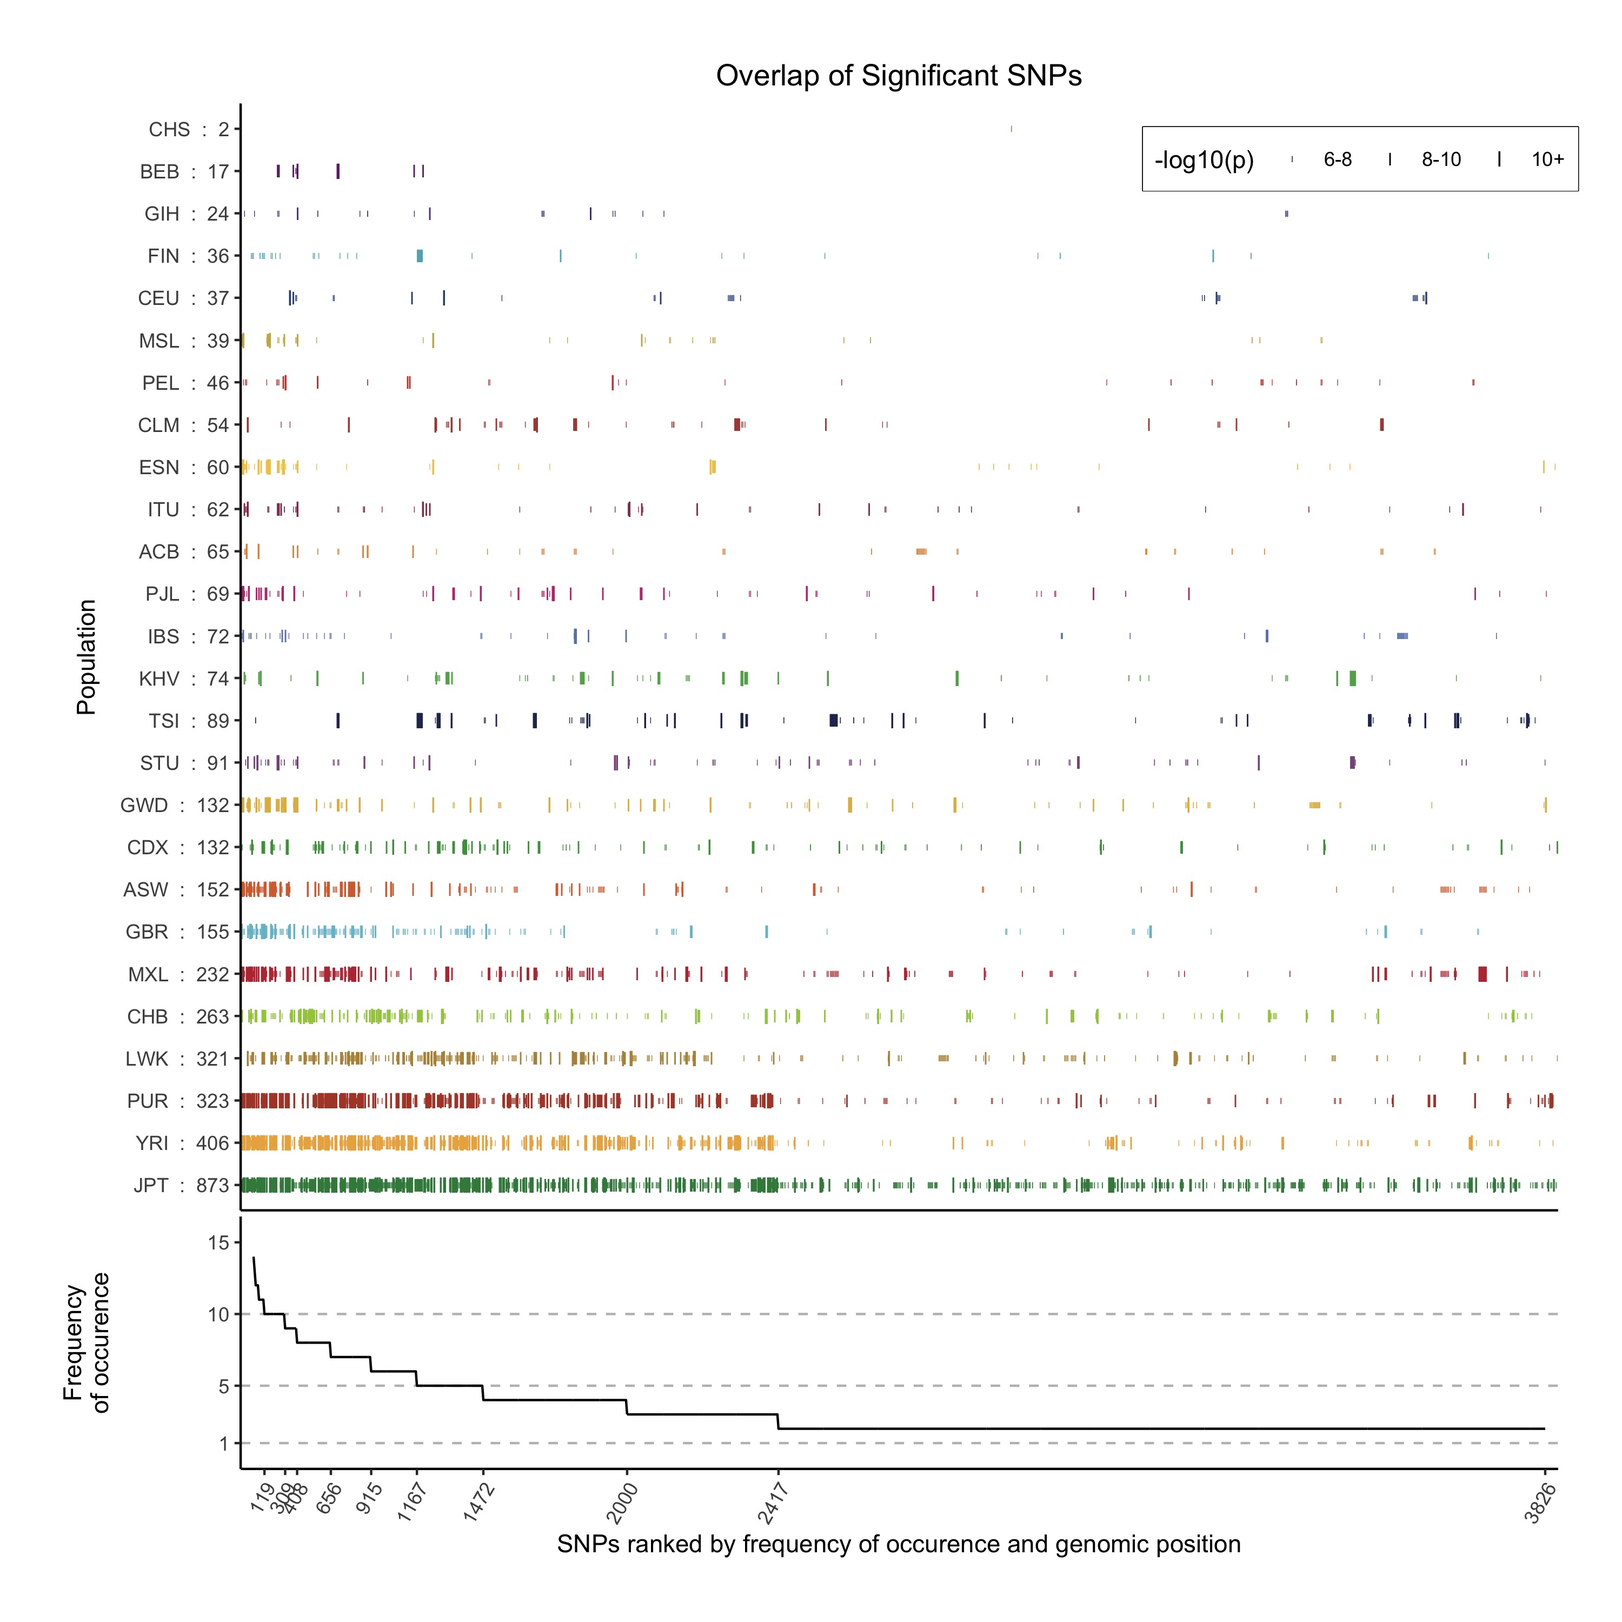
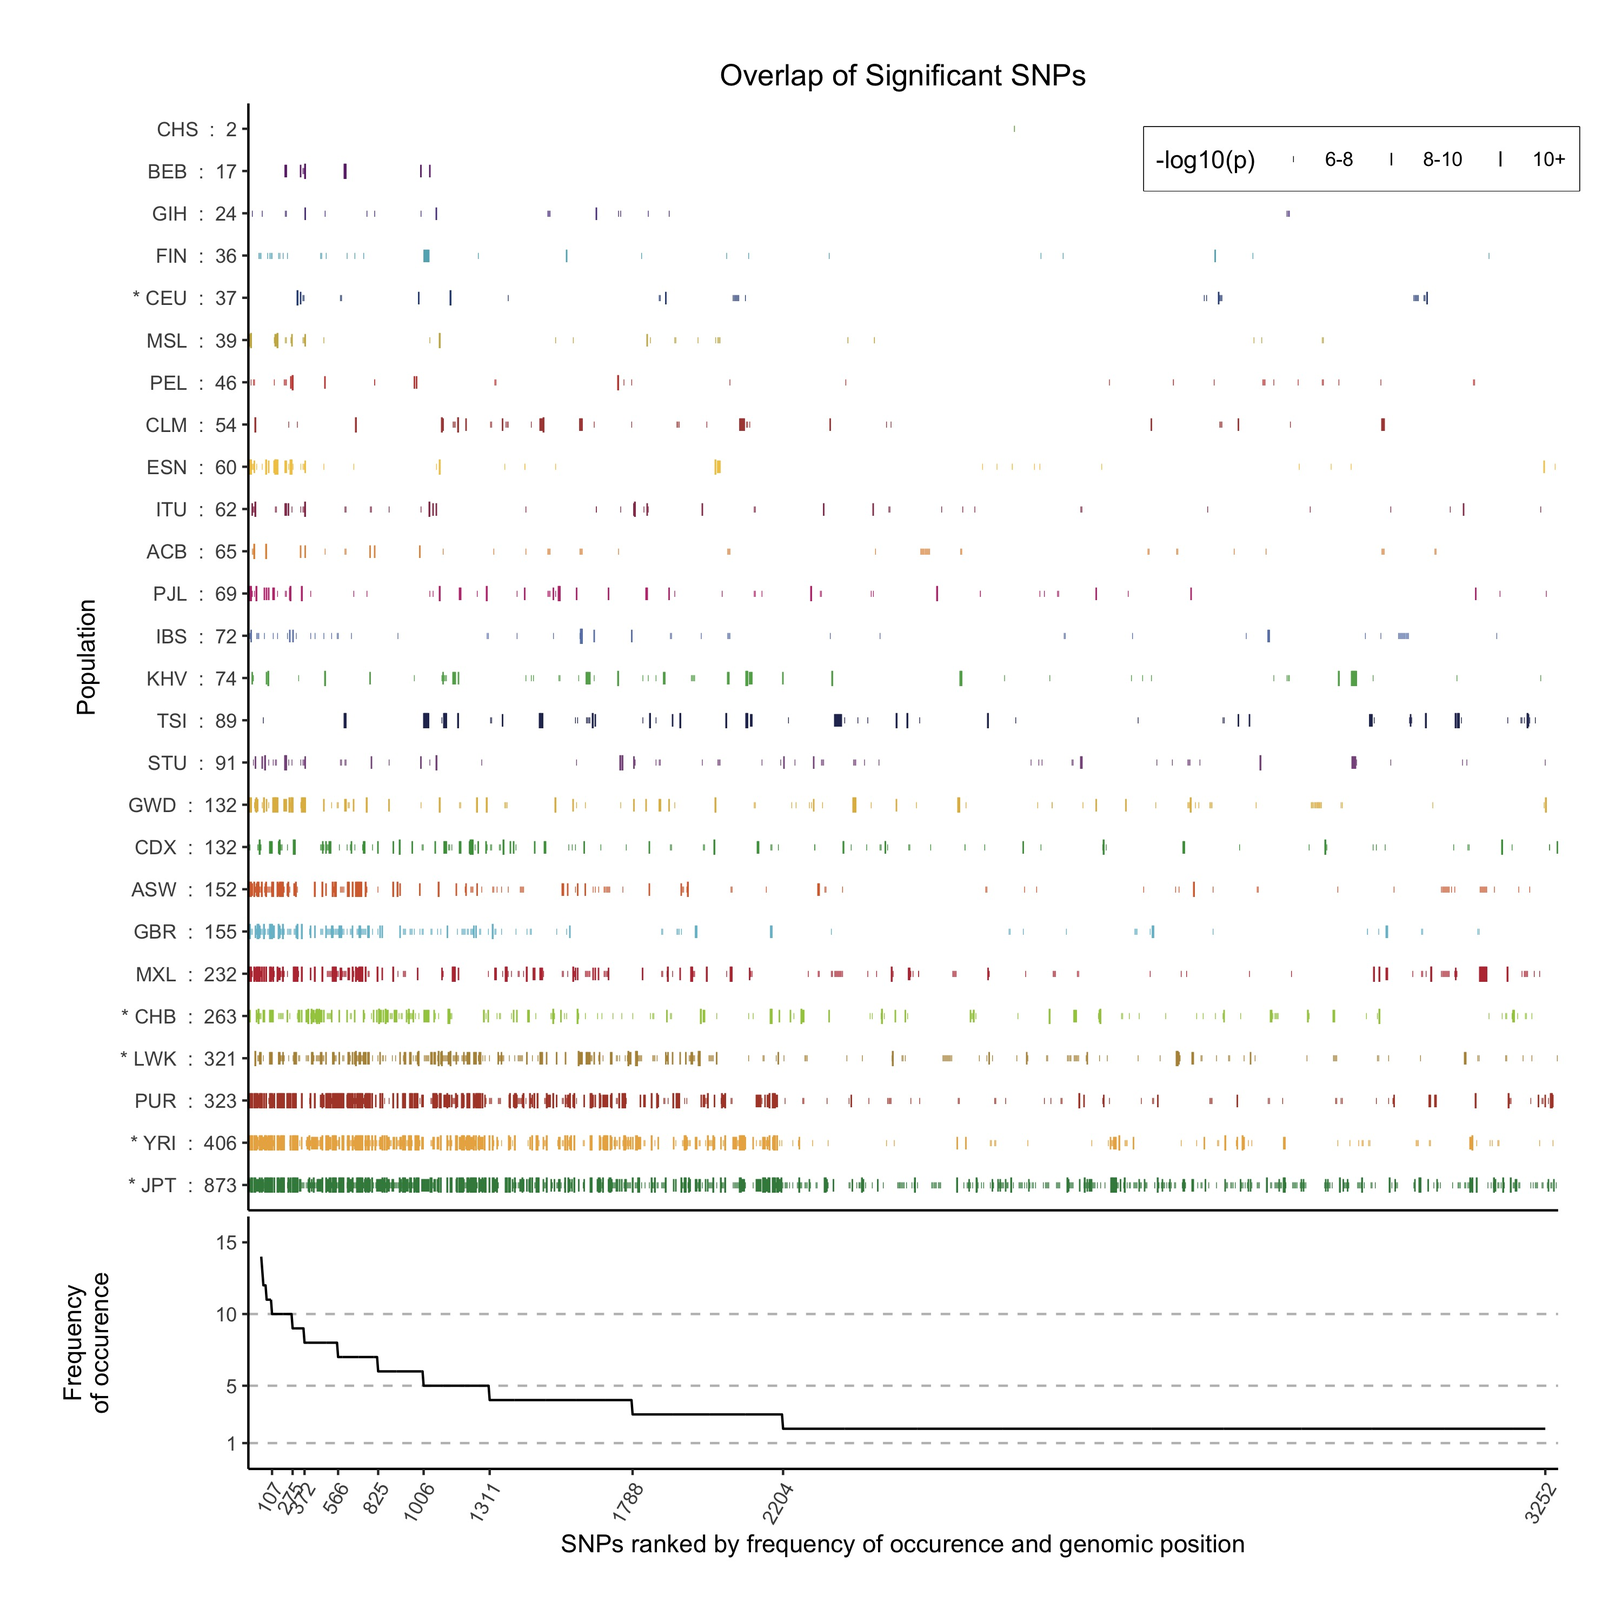
edits before meeting

diff --git a/legacy.tex b/legacy.tex
@@ -121,7 +121,8 @@ Harris and Pritchard reported an excess of a 3-mer substitution patterns *AC${\r
 While trying to follow up on this observation in a larger and more recent Japanese cohort, we did not find this particular signature.
 When comparing the allele frequencies between the Japanese individuals from the 1kGP and this larger dataset, we observed a number of single nucleotide polymorphisms (SNPs) private to one of the two groups.
 Given the similarity of the two populations, this strongly suggests a technical difference rather than a population structure effect.
-These mismatches were maintained after filtering for low-quality regions of the human genome and sites failing Hardy-Weinberg equilibrium tests \sgcomment{did we have a specific result for this? As in "$94\%$ of sites passed HW"...}. %Even though some of the mismatched variants are at low frequency in the 1kGP, and thus can evade Hardy-Weinberg detection, but many are at high enough frequency that HW detection   
+These mismatches were maintained after filtering for low-quality regions of the human genome and sites failing Hardy-Weinberg equilibrium tests \sgcomment{did we have a specific result for this? As in "$94\%$ of sites passed HW"...}. 
+%Even though some of the mismatched variants are at low frequency in the 1kGP, and thus can evade Hardy-Weinberg detection, but many are at high enough frequency that HW detection   
 %Whereas Hardy-Weinberg testing is efficient at detecting high frequency spurious variants, it has little power to filter out rare variants which, in aggregate, can contribute to mutational signatures.
 
 
@@ -149,25 +150,21 @@ This variability could result from evolving sequence platform and protocols or v
 By 2011, older sequencing technologies were phased out, and methods became more consistent, resulting in higher and more uniform quality.
 %Among the many covariates that could be used to identify spurious sites, such as sequencing date, sequencing technology, or sequencing centre, we used average quality of mapped bases ($Q$) per individual because it best correlated with mismatched sites across Japanese cohorts.
 
-<<<<<<< HEAD
-The GWAS approach similarly identified $Q$-associated SNPs in 24 of the 26 populations in the 1kGP, with the phase 1 populations being most affected.
-Over 3826 variants were independently associated to low $Q$ in at least two populations  (Figure \ref{OverLap}). 
-To build a test statistic to represent the association across all populations, we summed the deviances from each population (adjusting the degrees of freedom for the chi-squared test according to the number of populations with a segregating variant) and identified a total of 7971 statistically significant variants (Table \ref{sigTable}, Figure \ref{NRS_Manhattan}, Figure \ref{NRI_Manhattan}, Figure \ref{RS_Manhattan} and Figure \ref{RI_Manhattan}).
-To account for the large number of tests we performed a two-stage Benjamini \& Hochberg step-up FDR-controlling procedure to adjust the p-values using a nominal Type-I error rate $\alpha = 0.01$ \citep{Benjamini2006}.
-=======
-We therefore performed the reverse GWAS approach in all populations, and similarly identified $Q$-associated SNPs in 24 of the 26 populations in the 1kGP, with the phase 1 populations being most affected \sgcomment{quantify!}.
-Over \todo{3517} variants were independently associated to low $Q$ in at least two populations  \sgcomment{At what threshold?}(Figure \ref{OverLap}). 
-To build a test statistic to represent the association across all populations, we summed the deviances from each population (adjusting the degrees of freedom for the chi-squared test according to the number of populations with a segregating variant) and identified a total of 7971 statistically significant variants using a FDR cutoff of $\alpha = 0.01$ (Table \ref{sigTable}, Figure \ref{NRS_Manhattan}, Figure \ref{NRI_Manhattan}, Figure \ref{RS_Manhattan} and Figure \ref{RI_Manhattan}):
-To account for the large number of tests, we used a two-stage Benjamini \& Hochberg step-up FDR-controlling procedure to adjust the p-values using a nominal Type-I error rate $\alpha = 0.01$ \citep{Benjamini2006}.
->>>>>>> 0303eb4fb94935e3da7d00b7364aa2aa294f983c
+We therefore performed the reverse GWAS approach in all populations, and similarly identified $Q$-associated SNPs in 24 of the 26 populations in the 1kGP, with the phase 1 populations being most affected, with on average four times as many significantly associated sites compared to the phase 3 populations.
+% \sgcomment{quantify!}
+Over 3826 variants were independently associated to low $Q$ in at least two populations with $ p < 10^{-6}$ (Figure \ref{OverLap}). 
+To build a test statistic to represent the association across all populations, we summed the deviances from each population (adjusting the degrees of freedom for the chi-squared test according to the number of populations with a segregating variant) and identified a total of 10756 statistically significant variants using a FDR cutoff of $\alpha = 0.01$ (Figure \ref{NRS_Manhattan}, Figure \ref{NRI_Manhattan}, Figure \ref{RS_Manhattan} and Figure \ref{RI_Manhattan}).
+We tested SNPs, INDELs and repetitive regions separately as they may have different error rates (Table \ref{sigTable})
+To account for the large number of tests, we used a two-stage Benjamini \& Hochberg step-up FDR-controlling procedure to adjust the p-values using a nominal Type-I error rate $\alpha = 0.01$ \citep{Benjamini2006}. 
 
+\luke{doing a final update on these values. Repeat entries, rerunning final adjustment with unique positions.}
 \begin{table}[h]
 \begin{tabular}{l  r r}
                       & {Repeat}  & {Non-Repeat}       \\ \hline
-{SNP}  & 2207 & 3839 \\  
-{INDEL} & 750  & 1175 \\ \hline
+{SNP}  & 2207 & 6919 \\  
+{INDEL} & 750  & 2017 \\ \hline
 \end{tabular}
-\caption{Number of statistically significant variants per category \sgcomment{Repeat/Non-repeat is super ambiguous need to clarify!}}
+\caption{Number of statistically significant variants per category. Variants that are flagged by the 1kGP nested repeat mask file were analyzed separately. SNPs and INDELs were also analyzed separately.}
 \label{sigTable}
 \end{table}
 
@@ -184,6 +181,7 @@ To account for the large number of tests, we used a two-stage Benjamini \& Hochb
 \caption{Overlap of SNPs identified independently to be associated with average quality of mapped bases $Q$.
 The size of the crosses ( + ) are proportional to the -log10(p) value of that SNP.
 The x axis is ranked by the frequency of occurrence of a SNP, then by genomic position.
+Phase 1 populations are marked by a star ( * ).
 The line plot underneath shows the number of populations for which a variant has reached significance.
 The populations that tend to have the most individuals with low $Q$ also tend to have the most variants associated to $Q$. 
 The same variants identified as being low quality independently in each population are found in other populations. }
@@ -194,15 +192,9 @@ The same variants identified as being low quality independently in each populati
 The state of the art imputation servers use a combination of many databases including many that are not freely available.
 From the perspective of researchers, they act as black-box imputation machines that take observed genotypes as input and return imputed genotypes.  
 
-<<<<<<< HEAD
-In general, to investigate the proportion of suspicious SNPs that are being imputed, we submitted genotype data from chromosome 1 and 2 of 1kGP individuals to the Michigan Imputation Server.
-We found that \todo{all} the SNPs we identified as being associated with $Q$ were imputed back in the samples. 
-This suggests that the imputation reference panel likely includes individuals with low $Q$, and the dubious variants will be imputed in individuals who most closely match the low-quality individual
-=======
 To investigate the proportion of suspicious SNPs that are being imputed, we submitted genotype data from chromosome 1 and 2 of 1kGP individuals to the Michigan Imputation Server.
-We found that all the SNPs associated with $Q$ were imputed back in the samples. 
+We found that 11\% of the SNPs associated with $Q$ were imputed back in the samples. 
 This suggests that the imputation reference panel still includes individuals with low $Q$, and the dubious variants will be imputed in individuals who most closely match the low-quality individual
->>>>>>> 0303eb4fb94935e3da7d00b7364aa2aa294f983c
 
 Once we identified SNPs that were clearly associated with low $Q$, we searched the literature for any GWAS that might have reported these dubious variants as being significantly associated with some biologic al trait, even though there is no particular reason for these SNPS to be associated with phenotypes.
 The NHGRI-EBI Catalog of published genome-wide association studies identified three recent publications that had reported these variants as close to or above the genome-wide significant threshold.
@@ -210,31 +202,16 @@ Two of these studies genotyped individuals and imputed the data using the HapMap
 The third study used the 1kGP sequence data and cell lines directly.
 All three papers used strict quality thresholds, including Hardy-Weinberg equilibrium test, deviations in expected allele frequency and sequencing data quality thresholds.
 They also removed rare alleles and alleles with high degrees of missingness.
-Despite using state-of-the-art quality controls, these erroneous variants managed not only to be imputed onto real genotype data, but they also reached genome wide significance for biological traits. \sgcomment{This is \emph{very} misleading, and wrong. We should discuss. }
+Despite using state-of-the-art quality controls, these erroneous variants managed not only to be imputed onto real genotype data, but they also nearly reached genome wide significance for biological traits. 
+\sgcomment{This is \emph{very} misleading, and wrong. We should discuss. }
+\luke{Agreed, that sentence slipped by, there was another sentence like that in the discussion that I had fixed. Although the 3rd paper's SNP has $p < 10^{-11}$ }
 
-\sgcomment{Where are all your results comparing with Hapmap, etc? These should be in results.}
 
+We searched other databases to see if the suspicious variants had been sequenced in different cohorts.
+70 of these variants were present in HapMap and 186 in GnomAD (Figure \ref{HapMap_GnomAD}) \citep{HapMap2005,Lek2016}.
+These variants include the two variants found in the studies that imputed genotypes using HapMap.
+With our FDR type-I error rate of $\alpha = 0.01$, these variants could be explained by false positive associations.
 
-
-\section{Discussion}
-Two of these studies used HapMap as a reference panel, rather than 1000 Genomes \citep{Kraja2011, Ebejer2013}. 
-The HapMap project and 1000 Genomes project shared some cell lines, however used different sequencing platforms to produce the data \sgcomment{comma splice}.
-It is possible that that a cell line artifact may have produced the same suspicious SNPs in the two sequencing projects.
-<<<<<<< HEAD
-However, considering that there are only 70 suspicious SNPS that are concordant between hapmap and 1000 Genomes data, this is consistent with it being a false positive association.
-One of the SNPs was imputed solely using the CEU population of HapMap, and this population shows no significant association to quality for that SNP (Figure \ref{DiabetesSNP}.
-Given the false discovery rate adjustment with a type-I error rate $\alpha = 0.01$, we expect most the variants we identified not to be real, however we cannot discount the chance that they are real.
-It is clear that the majority of these variants do not reproduce in other datasets, but a small portion of them do reproduce and should be looked at with care. 
-=======
-However, considering that there are only \todo{number} suspicious SNPS that are concordant between hapmap and 1000 Genomes data, this is consistent with it being a false positive association.
-One of the SNPs was imputed solely using the CEU population of HapMap, and this population shows no significant association to quality for that SNP (Figure \ref{DiabetesSNP}).
-Given the false discovery rate adjustment with a type-I error rate $\alpha = 0.01$, we expect most the variants we identified not to be real, however we cannot discount the chance that they are real \sgcomment{check style}.
-\sgcomment{It is clear that -- see Strunk-White} the majority of these variants do not reproduce in other datasets, but a small portion of them do reproduce and should be looked at with care. 
->>>>>>> 0303eb4fb94935e3da7d00b7364aa2aa294f983c
-For example, if the SNP was imputed with HapMap maybe it is real, but if this same SNP is imputed using the 1kGP, it might be imputed improperly.
-\sgcomment{This paragraph reads as wishy washy. }
-
-%\todo{The variants identified} are among the \sgcomment{roughly $1\%$ this is a bit sloppy -- clarify} of suspicious SNPS that are concordant between hapmap and 1000 Genomes data, consistent with it being a false positive association.
 %While none of their SNPs reached significance below $ p < 10^{-8}$, they reported their results below a significance threshold of $ p < 10^{-5}$.
 %The data used was imputed genotype data using Hapmap II as the reference.
 %One of the top 25 SNPs in the GWAS on ADHD (rs6057648) was identified as being significantly associated to $Q$ .
@@ -242,8 +219,23 @@ For example, if the SNP was imputed with HapMap maybe it is real, but if this sa
 %Finding some of these SNPs in HapMap data was unexpected, however, not impossible considering that HapMap and 1kGP shared many samples.
 %We found that roughly 1\% of the SNPs associated to $Q$ were found in HapMap; rs6057648 is among those found in HapMap.
 
+\section{Discussion}
+Two of these studies used HapMap as a reference panel, rather than 1000 Genomes \citep{Kraja2011, Ebejer2013}. 
+The HapMap project and 1000 Genomes project shared some cell lines, however used different sequencing platforms to produce the data \sgcomment{comma splice}.
+It is possible that that a cell line artifact may have produced the same suspicious SNPs in the two sequencing projects.
+
+However, considering that there are only 70 suspicious SNPS that are concordant between hapmap and 1000 Genomes data, this is consistent with it being a false positive association.
+One of the SNPs was imputed solely using the CEU population of HapMap, and this population shows no significant association to quality for that SNP (Figure \ref{DiabetesSNP}).
+Given the false discovery rate adjustment with a type-I error rate $\alpha = 0.01$, we expect most the variants we identified not to be real; however we cannot discount the chance that they are real.
+%\sgcomment{check style}
+%\sgcomment{It is clear that -- see Strunk-White} 
+The majority of these variants do not reproduce in other datasets, but a small portion of them do reproduce and should be looked at with care. 
+For example, if the SNP was imputed with HapMap maybe it is real, but if this same SNP is imputed using the 1kGP, it might be imputed improperly.
+\sgcomment{This paragraph reads as wishy washy. }
+\luke{Agreed, I'm not sure what we're trying to say here.}
+
 The second study used the raw BAM files from the 1kGP to identify EBV copy number by comparing the number of reads that mapped to EBV \citep{Mandage2017}.
-Based on GWAS on the EBV copy number, the study reports only one SNP with significance below $ p < 10^{-8}$, as well as \sgcomment{number} SNPs with $ p < 10^{-6}$. 
+Based on GWAS on the EBV copy number, the study reports only one SNP with significance below $ p < 10^{-8}$, as well as 104 SNPs in the range of $p < 10^{-7}$ to $ p < 10^{-6}$. 
 Four of the SNPs in the top hits for the Asian populations (rs200655768, rs184202621, rs201255786, rs201761909) were identified by our regression against $Q$. The study further confirmed EBV copy number estimation using PCR on 7 samples, but all of them had high $Q$.
 
 
@@ -262,8 +254,8 @@ We were not able to pinpoint the precise technical source of the discrepancy.
 Sequencer-specific errors would be expected to be absent from Hapmap, which was sequenced using a combination of array based technologies and PCR targeted sequencing \citep{HapMap2005}. 
 We find that $99\%$ of the suspicious SNPs are indeed absent from HapMap, which is consistent with the expected false positive rate in our test.
   
-The presence of some of these SNPs in HapMap suggests a cell line effect; although, this result is not very convincing with only 42 variants of sites identified in 1kGP present in HapMap (Figure \ref{HapMap_GnomAD}).
-We also note that 164 of the suspicious variants are present in the GnomAD database (Figure \ref{HapMap_GnomAD}).
+The presence of some of these SNPs in HapMap suggests a cell line effect; although, this result is not very convincing with only 70 variants of sites identified in 1kGP present in HapMap (Figure \ref{HapMap_GnomAD}).
+We also note that 186 of the suspicious variants are present in the GnomAD database (Figure \ref{HapMap_GnomAD}).
 Indeed, further inquiries into the details of sample preparation and data processing would be required to identify the source of this signal.
 
 If these sequencing platforms are no longer being used, then it it likely that these artifacts are no longer being actively introduced in recent sequence data.
@@ -352,7 +344,7 @@ The observed summed deviances were used to compute the \textit{p}-value for each
 
 
 Given the large number of tests (of which there are $S$), the large proportion of expected null hypotheses and the positive dependencies across the genome, we used the two-stage Benjamini \& Hochberg step-up FDR-controlling procedure to adjust the \textit{p}-values \citep{Benjamini2006}.
-By using a nominal Type-I error rate $\alpha = 0.01$, a total of 7971 variants were found to be statistically significance. See supplementary file {here}. \luke{make this file}
+By using a nominal Type-I error rate $\alpha = 0.01$, a total of 10756 variants were found to be statistically significance. See supplementary file {here}. \luke{make this file}
 
 \subsection{Mutation Spectrum}
 We calculated the mutation spectrum of triplets for the list of significant SNPs for the JPT population using a similar method as described in Harris et al. 2017. \citep{Harris2017a}
